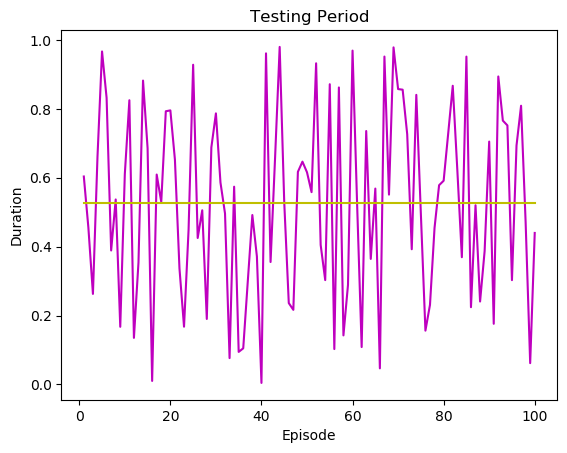
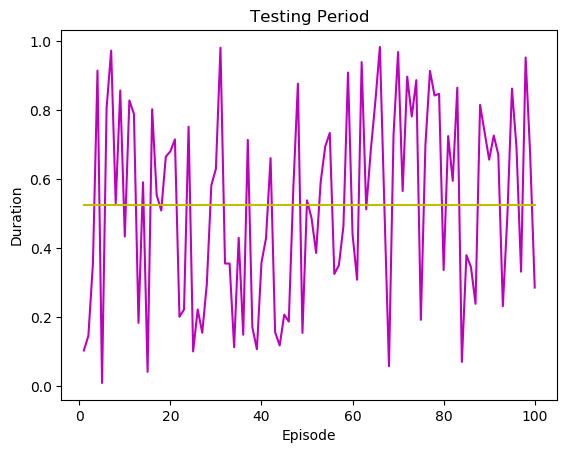
training plot function for utils

diff --git a/ql_cartpole/utils.py b/ql_cartpole/utils.py
@@ -1,44 +1,53 @@
 import matplotlib.pyplot as plt
 import json
 import random
+from collections import deque
 
 x = [1,2,3,8]
 y = [4,5,6,7]
 
-def plot():
+def plot_training(rewards, moving_avg_period=100):
     plt.figure(1)
-    plt.plot(x)
-    plt.plot(y)
-    plt.title("Training Period")
     plt.xlabel("Episode")
     plt.ylabel("Duration")
-    plt.savefig('res/training.png')
-    plt.show()
 
-def plot_training(values, moving_avg_period=100):
-    plt.figure(2)
-    plt.plot(x,y,'m')
-    plt.xlabel("Episode")
-    plt.ylabel("Duration")
-    plt.title("Testing Period")
-    plt.savefig("res/testing.png")
+    episodes = [i for i in range(1, len(rewards) + 1)]
+    num_1 = plt.plot(episodes, rewards, 'b', label="Episode Reward")
+
+    avg_queue = deque()
+    avg_rewards = deque()
+    for i in range(99):
+        avg_rewards.append(0)
+        avg_queue.append(rewards[i])
+    for i in range(100, len(rewards)):
+        avg_queue.append(rewards[i])
+        avg = sum(avg_queue) / len(avg_queue)
+        avg_rewards.append(avg)
+        avg_queue.popleft()
+    num_2 = plt.plot(episodes, avg_rewards, '--', label="100 Episode Moving Average")
+
+    plt.savefig("res/training.png", bbox_inches="tight")
+    plt.legend()
     plt.show()
 
 def plot_testing(rewards):
-    plt.figure(3)
-    episodes = [i for i in range(1, 101)]
+    plt.figure(2)
     plt.xlabel("Episode")
     plt.ylabel("Duration")
-    plt.title("Testing Period")
-    plt.plot(episodes, rewards, 'm')
-    avg_reward = sum(rewards) / 100
-    avg_rewards = [avg_reward for i in range(100)]
-    plt.plot(episodes, avg_rewards,'--')
-    plt.savefig("res/testing.png")
+
+    episodes = [i for i in range(1, len(rewards) + 1)]
+    num_1 = plt.plot(episodes, rewards, 'm', label="Episode Reward")
+
+    avg_reward = sum(rewards) / len(rewards)
+    avg_rewards = [avg_reward for i in range(len(rewards))]
+    num_2 = plt.plot(episodes, avg_rewards,'--', label="Average Reward")
+
+    plt.savefig("res/testing.png", bbox_inches='tight')
+    plt.legend()
     plt.show()
 
 def plot_epsilon(epsilons):
-    plt.figure(4)
+    plt.figure(3)
     episodes = [i for i in range(1, len(epsilons) + 1)]
     plt.xlabel("Episode")
     plt.ylabel("Epsilon")
@@ -70,4 +79,4 @@ def dummy(rewards):
     plt.show()
 
 rewards = [random.random() for i in range(100)]
-dummy(rewards)
+plot_testing(rewards)
